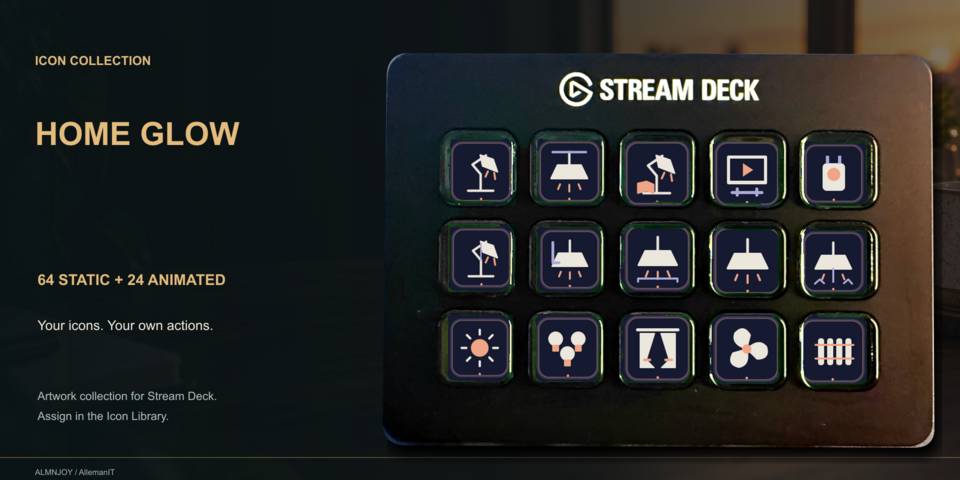
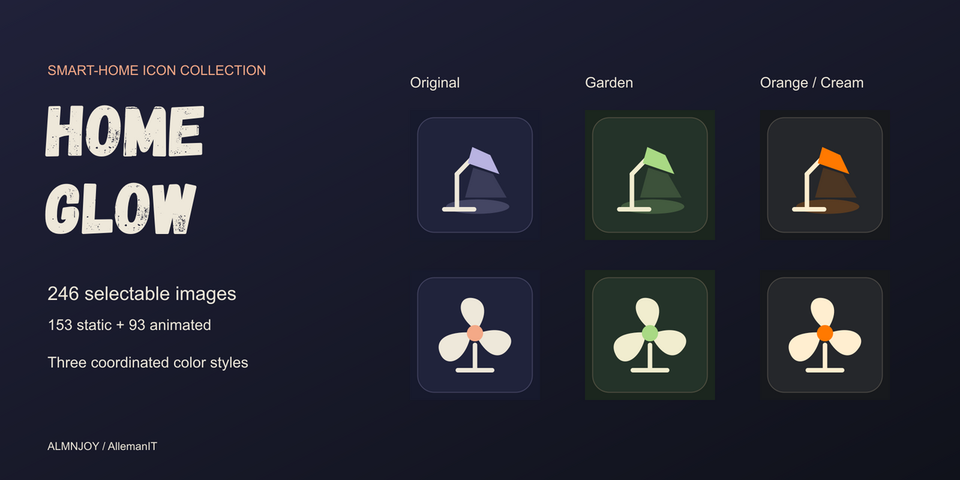
marketplace: live covers, updates in review, Command Deck + support page

diff --git a/src/data/marketplace.ts b/src/data/marketplace.ts
@@ -10,7 +10,10 @@
 //   BUSINESS/Brand-and-Marketing/ElgatoMarketplace/README.md + START-HERE.html.
 // Titles, categories, prices and URLs: read off the published listings / Maker Console. Taglines, alt text
 //   and notes: condensed from each product's DESCRIPTION.txt / LISTING.json. Nothing here is written from scratch.
-// status: live = published and purchasable; pending = submitted, Elgato review not finished, no public URL yet.
+// status: live = published and purchasable; pending = submitted, Elgato review not finished, no public URL yet;
+//         coming-soon = built and being finished locally, not submitted.
+// update: a newer version of a LIVE product that is waiting on Elgato review (shown as a note on the card).
+// Covers: live products use the exact thumbnail Elgato serves (mp-cdn '-thumbnail-intrinsic-' 1280x640, synced 2026-10-14).
 
 export type Product = {
   slug: string;                         // public/design-lab/marketplace/<slug>.png
@@ -21,8 +24,9 @@ export type Product = {
   note?: string;                        // constraint carried over from the listing itself
   price?: string;                       // current price on the listing, or the submitted price while pending
   url?: string;                         // canonical public listing URL (live only)
-  status: 'live' | 'pending';
+  status: 'live' | 'pending' | 'coming-soon';
   version?: string;
+  update?: string;
   support?: string;
 };
 
@@ -44,6 +48,7 @@ export const products: Product[] = [
     url: 'https://marketplace.elgato.com/product/range-finder-companion-dc521771-db4a-4fd7-a462-22f3790a043b',
     status: 'live',
     version: '0.7.0',
+    update: 'Version 0.7.1 is in Elgato review.',
     support: '/support/range-finder/',
   },
   {
@@ -65,7 +70,7 @@ export const products: Product[] = [
     title: 'WARDOGS - Tactical Circuit',
     category: 'Profiles',
     tagline: 'Tactical Circuit artwork for WARDOGS on a 15-key Stream Deck: infantry, vehicle, helicopter and building sets, ivory symbols on orange and blue circuits.',
-    alt: 'WARDOGS - Tactical Circuit cover: fifteen ivory tactical symbols on orange and blue circuit fragments, Your deck, your control.',
+    alt: 'WARDOGS - Tactical Circuit cover: a Stream Deck on a desk with ivory tactical symbols on orange and blue circuit keys.',
     note: 'Independent ALMNJOY work, not an official WARDOGS, BULKHEAD or Elgato product. Button images are static and do not report live game state.',
     price: '$1.99',
     url: 'https://marketplace.elgato.com/product/wardogs-tactical-circuit-f5fee548-35a8-4015-92a6-b42bf4534821',
@@ -104,6 +109,7 @@ export const products: Product[] = [
     price: '$3.99',
     url: 'https://marketplace.elgato.com/product/pocket-gremlins-44745cc4-856f-4e4f-9888-8dcfe5fb053b',
     status: 'live',
+    update: 'Version 1.1 is in Elgato review: 20 new character designs, 44 static + 44 animated.',
   },
   {
     slug: 'meeting-mode',
@@ -136,6 +142,7 @@ export const products: Product[] = [
     price: '$5.99',
     url: 'https://marketplace.elgato.com/product/home-glow-d4706fa6-8ec8-4bbb-b845-7e3aaa4019d0',
     status: 'live',
+    update: 'Version 2 is in Elgato review: 246 selectable images (153 static, 93 animated) in three coordinated color styles.',
   },
   {
     slug: 'hearth-pixels',
@@ -192,10 +199,23 @@ export const products: Product[] = [
     status: 'pending',
     version: '1.0.0',
   },
+  // Built locally, not submitted yet.
+  {
+    slug: 'command-deck',
+    title: 'Command Deck',
+    category: 'Profiles',
+    tagline: 'Everyday work and gaming shortcuts on two 15-key pages, Everyday and Gamer Dad, in Cryo, Forge or After Hours styles with labelled or symbol-only artwork.',
+    alt: 'Command Deck cover: Stream Deck profile pages in three styles, Cryo, Forge and After Hours.',
+    note: 'Windows and the 15-key layout. Discord and OBS controls need their Elgato plugins; apps, games and accounts are not included.',
+    status: 'coming-soon',
+    version: '0.3.0',
+    support: '/support/command-deck/',
+  },
 ];
 
 export const counts = {
   total: products.length,
   live: products.filter((p) => p.status === 'live').length,
   pending: products.filter((p) => p.status === 'pending').length,
+  comingSoon: products.filter((p) => p.status === 'coming-soon').length,
 };
